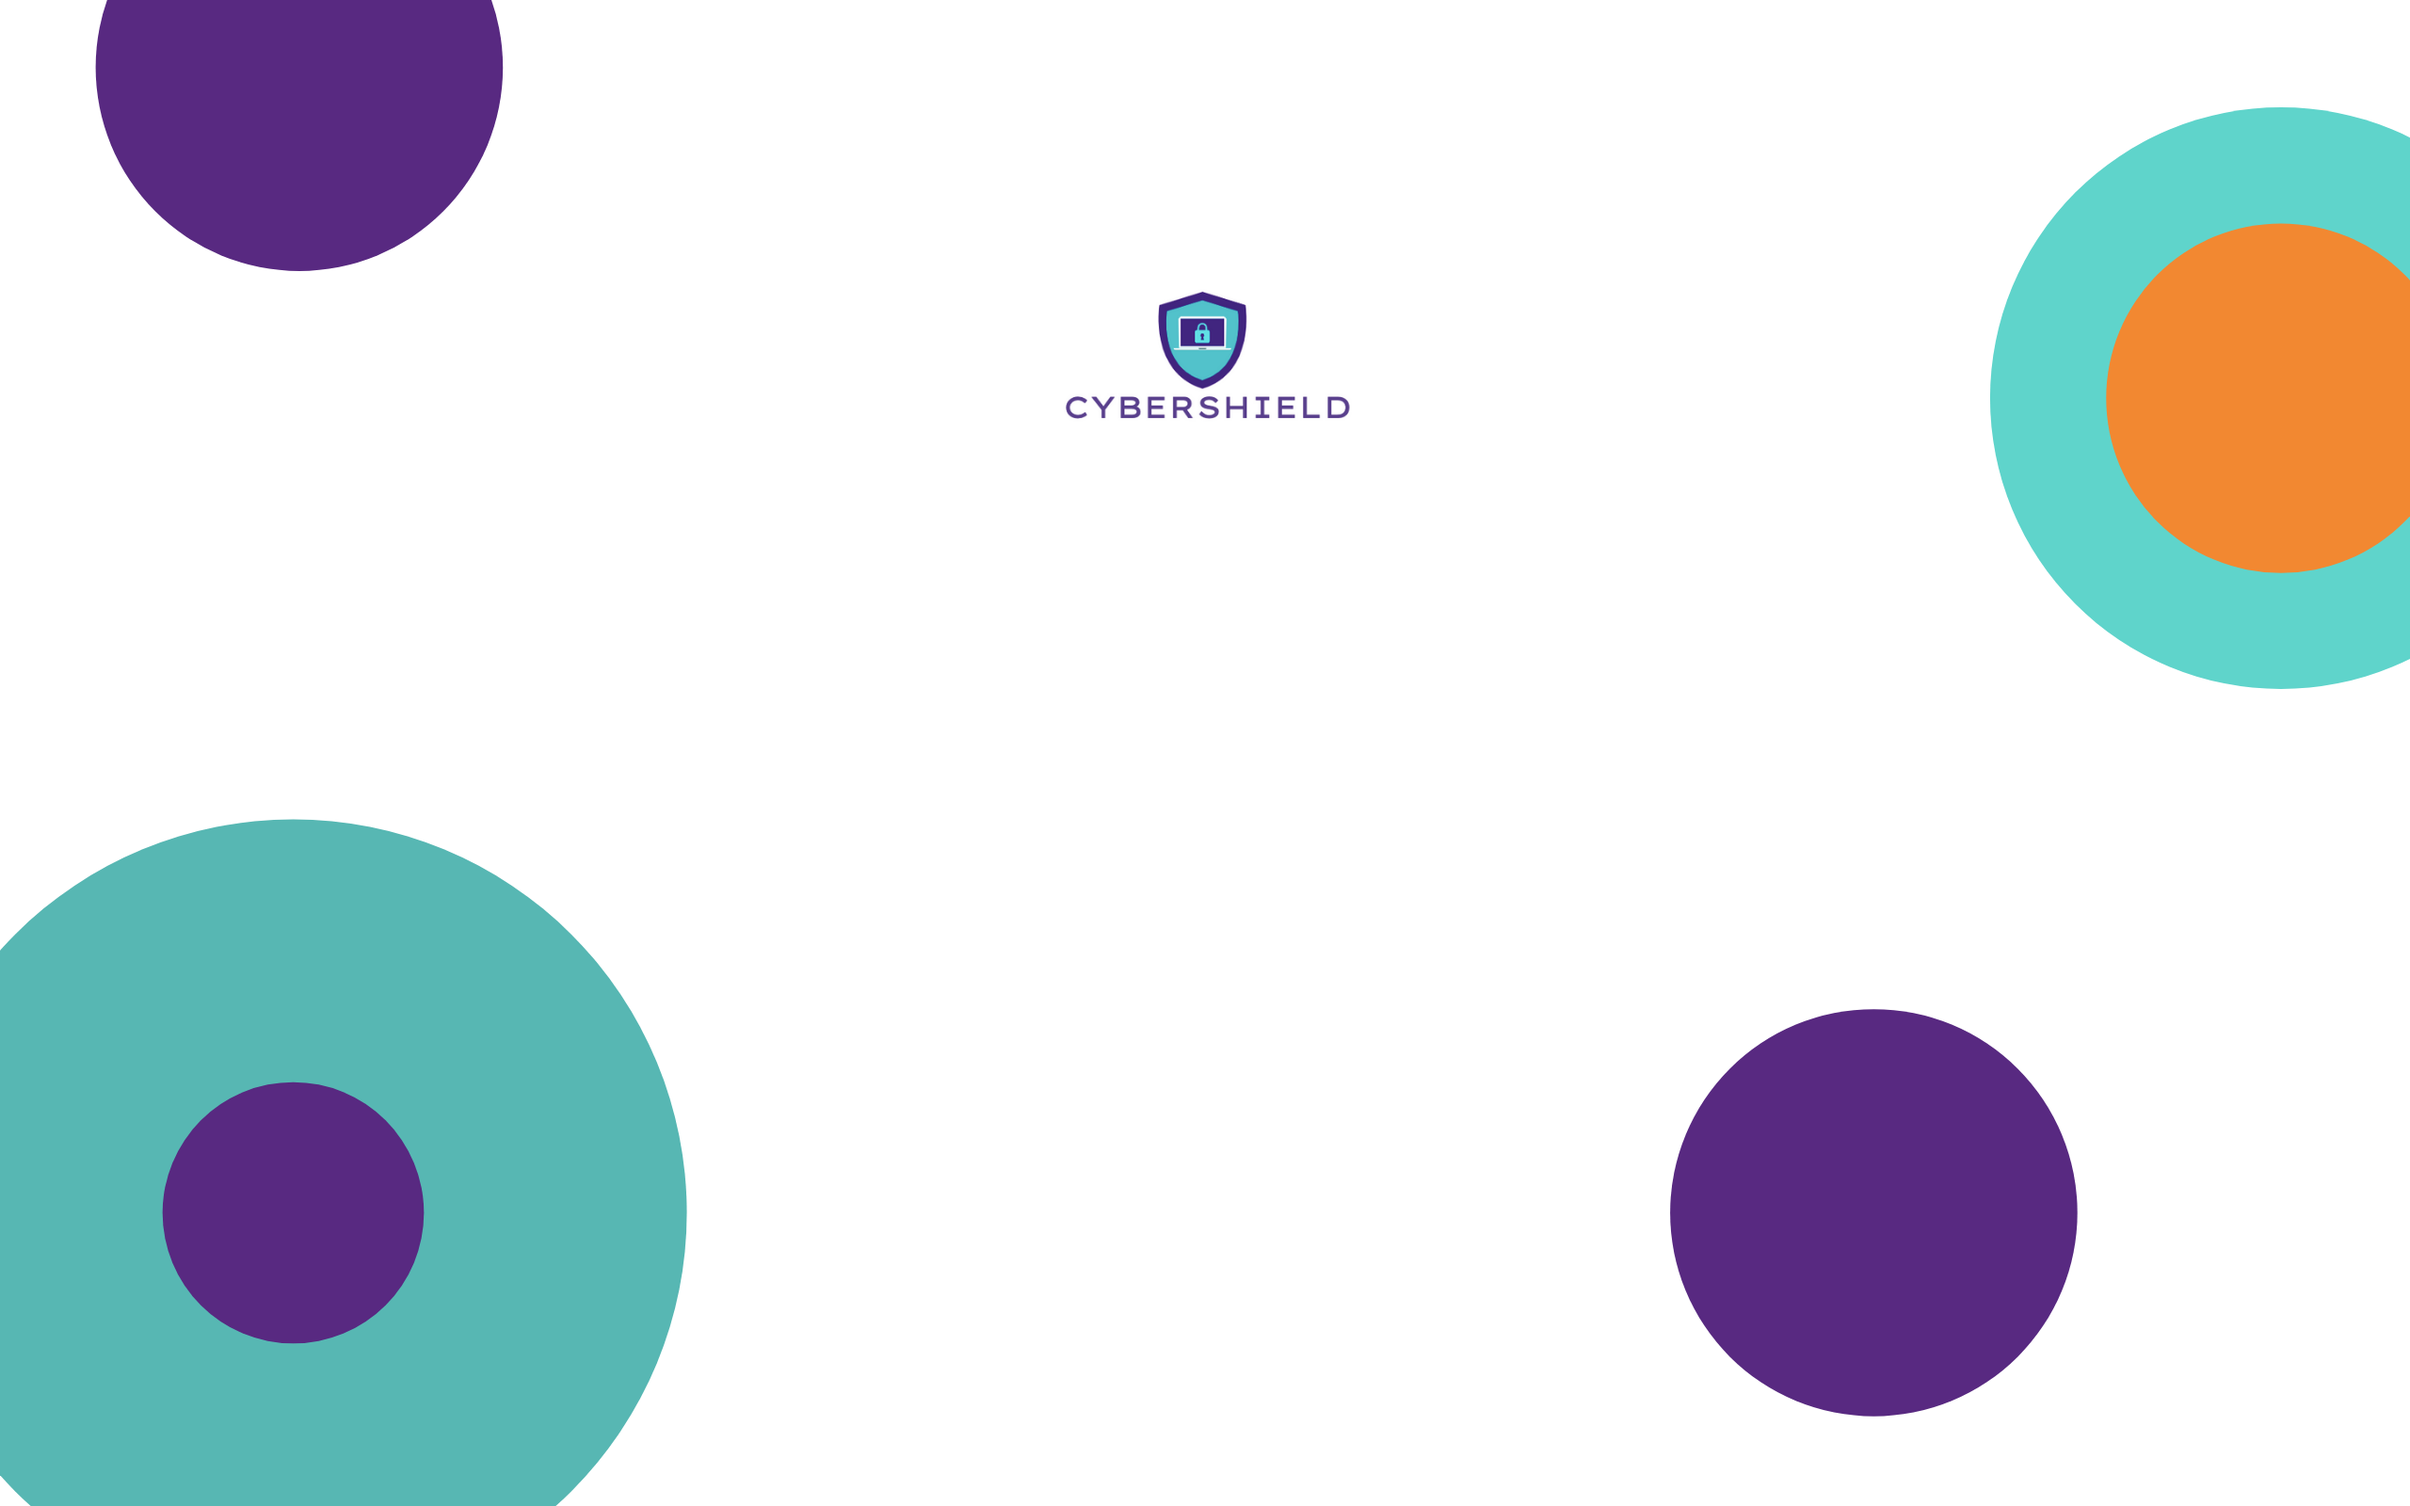
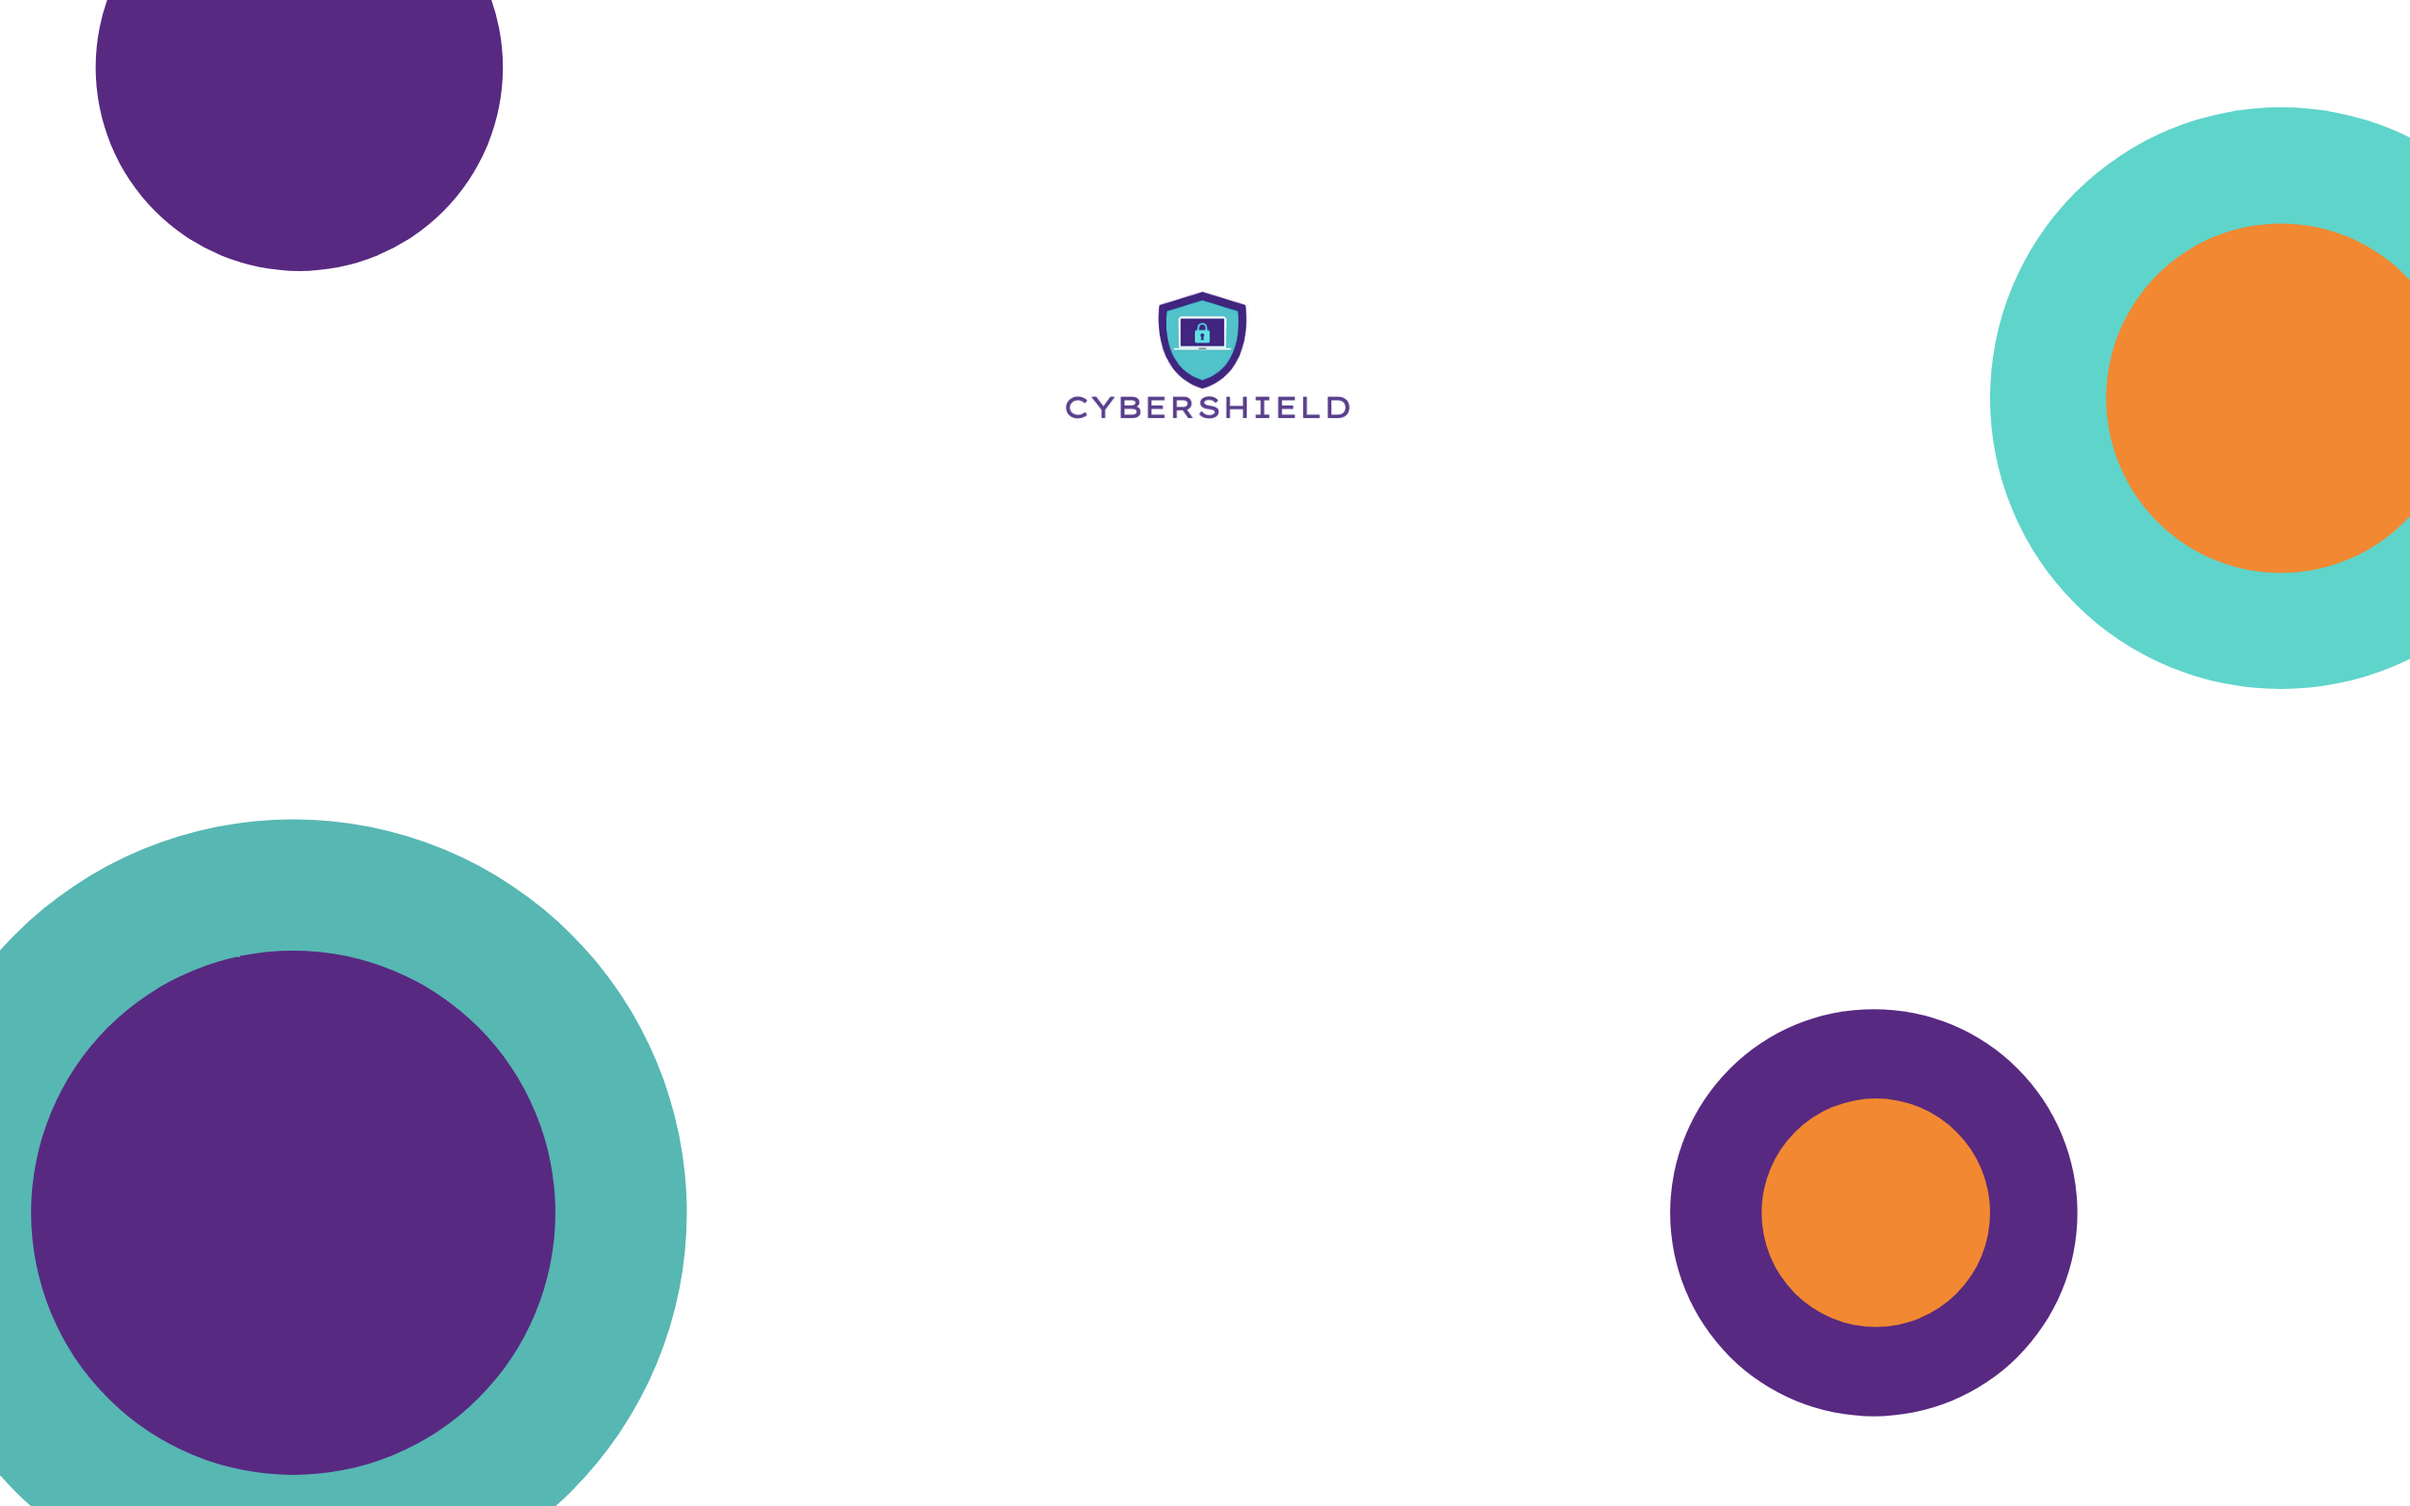
homepage finalised

Changed region(s): [[0.0, 0.625, 0.25, 1.0], [0.7188, 0.7188, 0.8438, 0.9062]]

diff --git a/website/webapp/static/css/styles.css b/website/webapp/static/css/styles.css
@@ -15,8 +15,8 @@
     background-attachment:scroll, scroll;
     background-position:left top, center center;
     background-repeat:repeat-y, no-repeat;
-    background-size: 80%;
-    background-position: right;
+    background-size: 100%;
+    background-position: center;
     background-image: url("/static/webapp/static/Home.png");
     height: 500px;
   }
@@ -30,14 +30,14 @@
     width:50%;
   }
   .logo{
-    background-color:#ffffff;
+    background-color:#41257F;
     border-radius:5px;
     width:130px;
     padding:10px;
     min-height:30px;
     text-align:center;
     line-height:30px;
-    color:#41257F;
+    color:#FFFFFF;
     font-size:23px;
     font-family:Helvetica, serif;
     font-weight: 500;
@@ -58,7 +58,7 @@
     font-weight:400;
     background-color: #41257F;
     cursor:pointer;
-    border: #ffffff;
+    border: #55B2AE;
     border-style: solid;
     font-family:Helvetica, serif;
     border-radius:5px;
@@ -73,7 +73,7 @@
   .lead-title{
     margin:150px 0 30px 0;
     font-size:40px;
-    color: #ffffff;
+    color: #41257F;
     font-family:Helvetica, serif;
   }
   .sub-lead-title{
@@ -100,12 +100,12 @@
     font-family:Helvetica, serif;
   }
   .lead-btn:hover{
-    background-color:#ffffff;
-    color:#41257F;
+    background-color:#EB852F;
+    color:#ffffff;
   }
   .lead-btn:active{
-    background-color:#ffffff;
-    color:#41257F;
+    background-color:#EB852F;
+    color:#ffffff;
   }
   .flex-sect{
     background-color:#fafafa;
@@ -320,11 +320,11 @@
   }
   .badge-header{
     height:135px;
-    background-image: url("/static/webapp/static/Home.png");
+    background-image: url("/static/webapp/static/Profile.png");
     background-color: #b1b1b1;
     background-position:left top, center center;
     background-attachment:scroll;
-    background-size: 290px 170px;
+    background-size: 290px 100px;
     overflow:hidden;
   }
   .badge-name{
@@ -475,6 +475,38 @@
     height:50px;
     width:150px;
     float:right;
+  }
+  .text{  
+    color: #7D7D7D;
+    font-size: 20px;
+    font-size: 10vw;
+    display: inline-block;
+    overflow: hidden;
+    margin-left: 61.2%;
+    letter-spacing: 2px;
+    animation: typing 3.5s steps(30, end), blink .75s step-end infinite;
+    white-space: nowrap;
+    font-size: 30px;
+    font-weight: 700;
+    border-right: 4px solid #EB852F;
+    box-sizing: border-box;
+  }
+  @keyframes typing {
+    from { 
+        width: 0% 
+    }
+    to { 
+        width: 40%
+    }
+  }
+
+  @keyframes blink {
+    from, to { 
+        border-color: transparent 
+    }
+    50% { 
+        border-color: #EB852F; 
+    }
   }
   .pwned-form{
     border-radius:3px;

diff --git a/website/webapp/templates/home.html b/website/webapp/templates/home.html
@@ -1,6 +1,6 @@
 {% load static %}
 <link rel="stylesheet" type="text/css" href= "{% static 'css/styles.css' %}">
-<header class="header-banner" id="iin1" style="background-color: #222222;">
+<header class="header-banner" id="iin1" style="background-color: #ffffff;">
     <div class="container-width" id="ifju">
       <div class="logo-container" id="io2t">
         <div class="logo"> Anova Consulting
@@ -16,9 +16,9 @@
       </nav>
       <div class="clearfix">
       </div>
-      <div class="lead-title">CYBERSHIELD HOME PAGE
+      <div class="lead-title">
       </div>
-      <div class="sub-lead-title" style="color: #ffffff; font-weight: bold;"> {% if user.is_authenticated %}
+      <div class="sub-lead-title" style="color: #41257F; font-weight: bold;"> {% if user.is_authenticated %}
         Hi {{ user.username }}!
         <div class="lead-btn">INTERACTIVE GAME
         </div>
@@ -26,6 +26,9 @@
         <p>You are not logged in</p>
         <div class="lead-btn" onclick= "location.href='/accounts/login'">Login</div>
       {% endif %}
+      </div>
+      <div>
+        <p class="text">Security in your own hands</p>
       </div>
     </div>
   </header>
